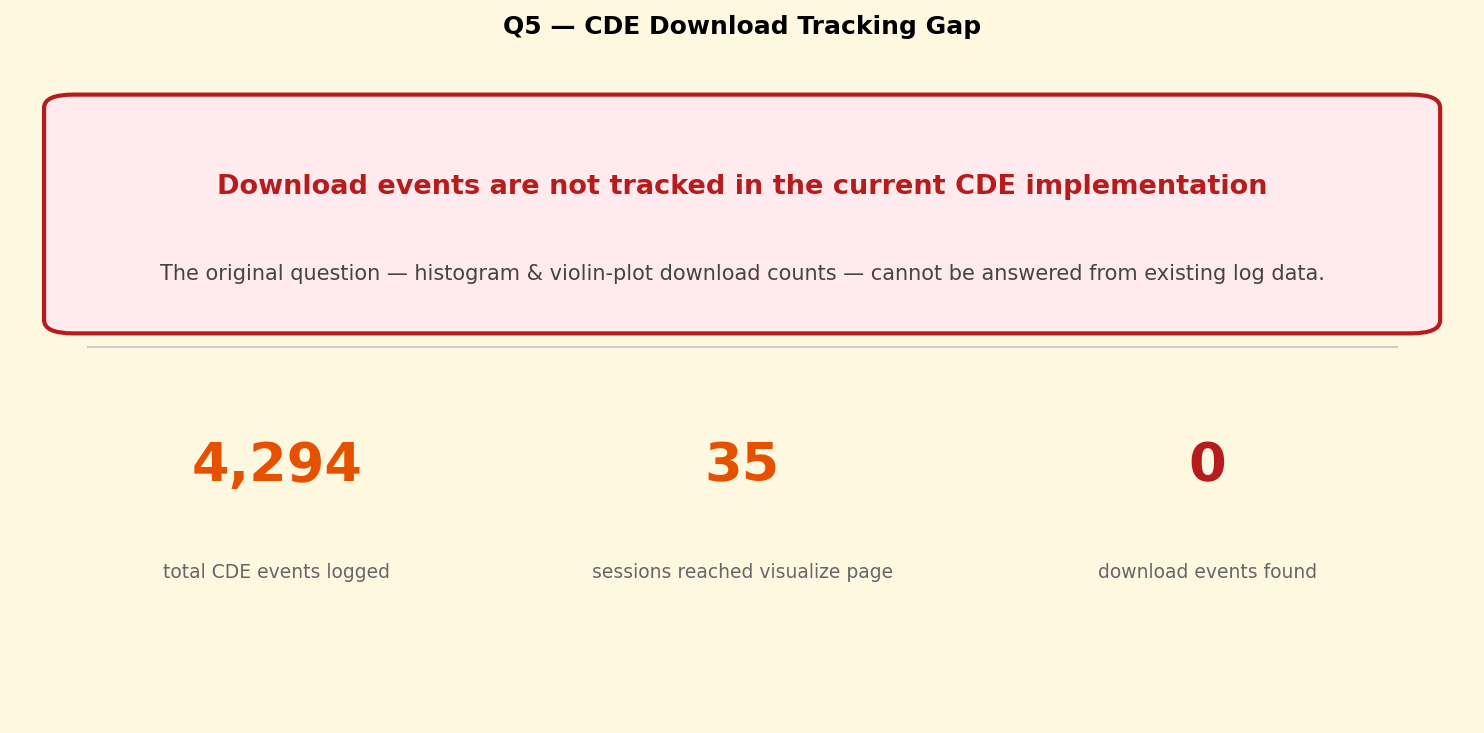
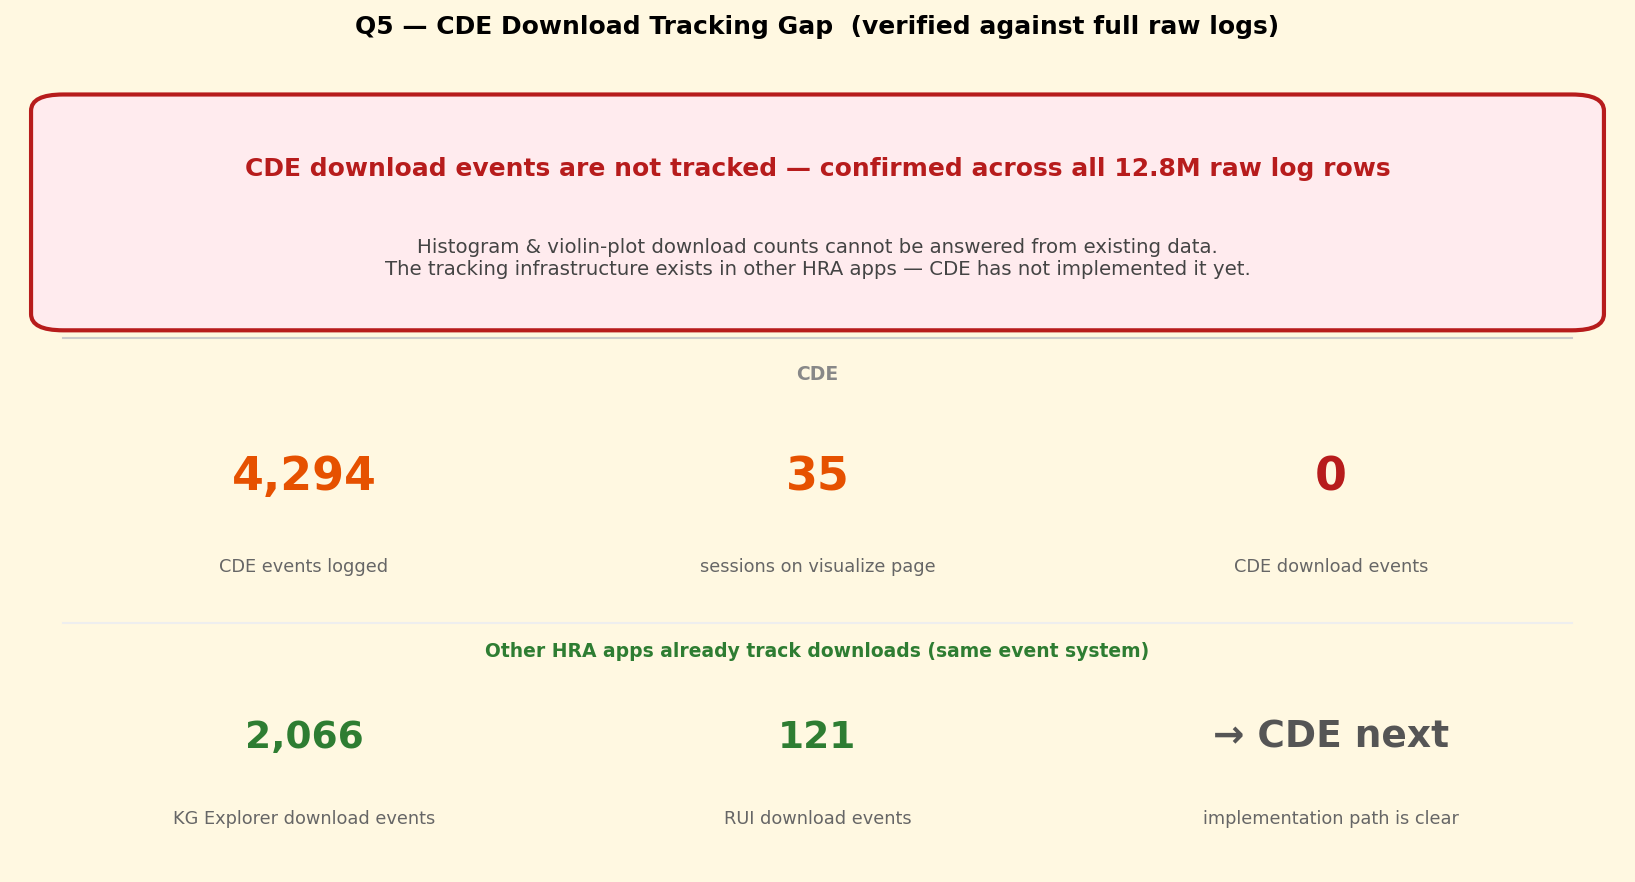
Update Q5 tracking gap with verified raw log findings
Searched all 12.8M HRA raw rows to confirm 0 CDE download events.
Chart now shows that KG Explorer (2,066) and RUI (121) already track
downloads in the same event system — gap is CDE-specific, not systemic.
Presentation notes updated to reflect this stronger framing.

diff --git a/q5_cde_workflow.py b/q5_cde_workflow.py
@@ -121,54 +121,80 @@ def chart_funnel(cde):
 # CHART 2 — Tracking gap callout
 # =============================================================================
 def chart_tracking_gap(cde):
-    total_events   = len(cde)
-    visualize_sess = cde[
+    # Confirmed counts from raw log exploration (12.8M rows searched)
+    # Download events exist in the HRA event system for other apps but not CDE.
+    total_events      = len(cde)
+    visualize_sess    = cde[
         cde["path"].str.contains("/cde/visualize|/visualize", na=False)
     ]["session_id"].nunique()
+    kg_dl_events      = 2066   # kg-explorer download events (raw log confirmed)
+    rui_dl_events     = 121    # ccf-rui review.download events (raw log confirmed)
 
-    fig, ax = plt.subplots(figsize=(10, 5))
+    fig, ax = plt.subplots(figsize=(11, 6))
     ax.axis("off")
     fig.patch.set_facecolor("#FFF8E1")
     ax.set_facecolor("#FFF8E1")
 
     # Warning banner
     banner = mpatches.FancyBboxPatch(
-        (0.04, 0.60), 0.92, 0.32,
+        (0.03, 0.68), 0.94, 0.25,
         boxstyle="round,pad=0.02",
         linewidth=2, edgecolor=WARN_COLOR,
         facecolor="#FFEBEE", transform=ax.transAxes, zorder=2,
     )
     ax.add_patch(banner)
 
-    ax.text(0.5, 0.80, "Download events are not tracked in the current CDE implementation",
+    ax.text(0.5, 0.86, "CDE download events are not tracked — confirmed across all 12.8M raw log rows",
             transform=ax.transAxes, ha="center", va="center",
-            fontsize=13, fontweight="bold", color=WARN_COLOR)
-    ax.text(0.5, 0.67,
-            "The original question — histogram & violin-plot download counts — cannot be answered from existing log data.",
+            fontsize=12, fontweight="bold", color=WARN_COLOR)
+    ax.text(0.5, 0.75,
+            "Histogram & violin-plot download counts cannot be answered from existing data.\n"
+            "The tracking infrastructure exists in other HRA apps — CDE has not implemented it yet.",
             transform=ax.transAxes, ha="center", va="center",
-            fontsize=10, color="#444444")
+            fontsize=9.5, color="#444444")
 
     # Divider
-    ax.plot([0.05, 0.95], [0.56, 0.56], color="#CCCCCC", linewidth=1,
+    ax.plot([0.03, 0.97], [0.65, 0.65], color="#CCCCCC", linewidth=1,
             transform=ax.transAxes)
 
-    # Supporting context stats
-    stats = [
-        (f"{total_events:,}",    "total CDE events logged"),
-        (f"{visualize_sess}",    "sessions reached visualize page"),
-        ("0",                    "download events found"),
+    # Top row: CDE-specific stats
+    ax.text(0.5, 0.60, "CDE", transform=ax.transAxes, ha="center",
+            fontsize=9, fontweight="bold", color="#888888")
+    cde_stats = [
+        (f"{total_events:,}",  "CDE events logged"),
+        (f"{visualize_sess}",  "sessions on visualize page"),
+        ("0",                  "CDE download events"),
     ]
-    for i, (val, label) in enumerate(stats):
+    for i, (val, label) in enumerate(cde_stats):
         x     = 0.18 + i * 0.32
         color = WARN_COLOR if val == "0" else CDE_COLOR
-        ax.text(x, 0.38, val,
-                transform=ax.transAxes, ha="center", va="center",
-                fontsize=26, fontweight="bold", color=color)
-        ax.text(x, 0.22, label,
-                transform=ax.transAxes, ha="center", va="center",
-                fontsize=9, color="#666666")
+        ax.text(x, 0.48, val, transform=ax.transAxes, ha="center", va="center",
+                fontsize=22, fontweight="bold", color=color)
+        ax.text(x, 0.37, label, transform=ax.transAxes, ha="center", va="center",
+                fontsize=8.5, color="#666666")
 
-    ax.set_title("Q5 — CDE Download Tracking Gap",
+    # Divider
+    ax.plot([0.03, 0.97], [0.30, 0.30], color="#EEEEEE", linewidth=1,
+            transform=ax.transAxes)
+
+    # Bottom row: other apps DO track downloads (context)
+    ax.text(0.5, 0.26, "Other HRA apps already track downloads (same event system)",
+            transform=ax.transAxes, ha="center", fontsize=9,
+            fontweight="bold", color=OK_COLOR)
+    other_stats = [
+        (f"{kg_dl_events:,}", "KG Explorer download events"),
+        (f"{rui_dl_events}",  "RUI download events"),
+        ("→ CDE next",        "implementation path is clear"),
+    ]
+    for i, (val, label) in enumerate(other_stats):
+        x = 0.18 + i * 0.32
+        color = OK_COLOR if i < 2 else "#555555"
+        ax.text(x, 0.16, val, transform=ax.transAxes, ha="center", va="center",
+                fontsize=18, fontweight="bold", color=color)
+        ax.text(x, 0.06, label, transform=ax.transAxes, ha="center", va="center",
+                fontsize=8.5, color="#666666")
+
+    ax.set_title("Q5 — CDE Download Tracking Gap  (verified against full raw logs)",
                  fontsize=12, fontweight="bold", pad=10)
 
     plt.tight_layout()

diff --git a/presentation_notes.md b/presentation_notes.md
@@ -218,13 +218,14 @@ Brief talking points for each chart. Organized by client question.
 
 ### q5_2 — Download Tracking Gap (Callout)
 
-**What it shows:** A clear statement of a data gap: the original question cannot be answered from existing logs.
+**What it shows:** A verified statement of a data gap, confirmed by searching all 12.8M raw HRA log rows — not just the preprocessed files.
 
 **Key talking points:**
-- Despite **4,294 CDE events logged** and **35 sessions reaching the Visualize page**, there are **0 download events** in the data.
-- Download interactions on the histogram and violin-plot charts are simply not being tracked.
-- This is an important finding to surface honestly — the client may not realize this gap exists.
-- It is also an opportunity: adding tracking now means the question can be answered in the next data collection cycle.
+- Despite **4,294 CDE events logged** and **35 sessions reaching the Visualize page**, there are **0 CDE download events** anywhere in the raw data.
+- This was verified by searching every row of the full 12.8M-row HRA log — not a sampling limitation or preprocessing artifact.
+- Crucially, **the tracking infrastructure already works**: KG Explorer logged **2,066 download events** and RUI logged **121** in the same dataset, using the same event system.
+- The gap is CDE-specific — the team simply hasn't wired up download tracking for the histogram and violin-plot components yet.
+- This reframes the finding from "data is missing" to "the fix is well-scoped and low-risk to implement."
 
 ---
 
@@ -260,5 +261,5 @@ Brief talking points for each chart. Organized by client question.
 | q4_2 | Q4 | Horizontal bar | Kidney (L) most selected organ |
 | q4_3 | Q4 | Stat card | 0.6% of EUI sessions use keyboard navigation |
 | q5_1 | Q5 | Funnel | 175 → 33 sessions; 57% drop at landing |
-| q5_2 | Q5 | Callout | 0 download events tracked in CDE |
+| q5_2 | Q5 | Callout | 0 CDE downloads in 12.8M rows; KG/RUI already track downloads |
 | q5_3 | Q5 | Table | 2 high-priority events to add for Q5 |
